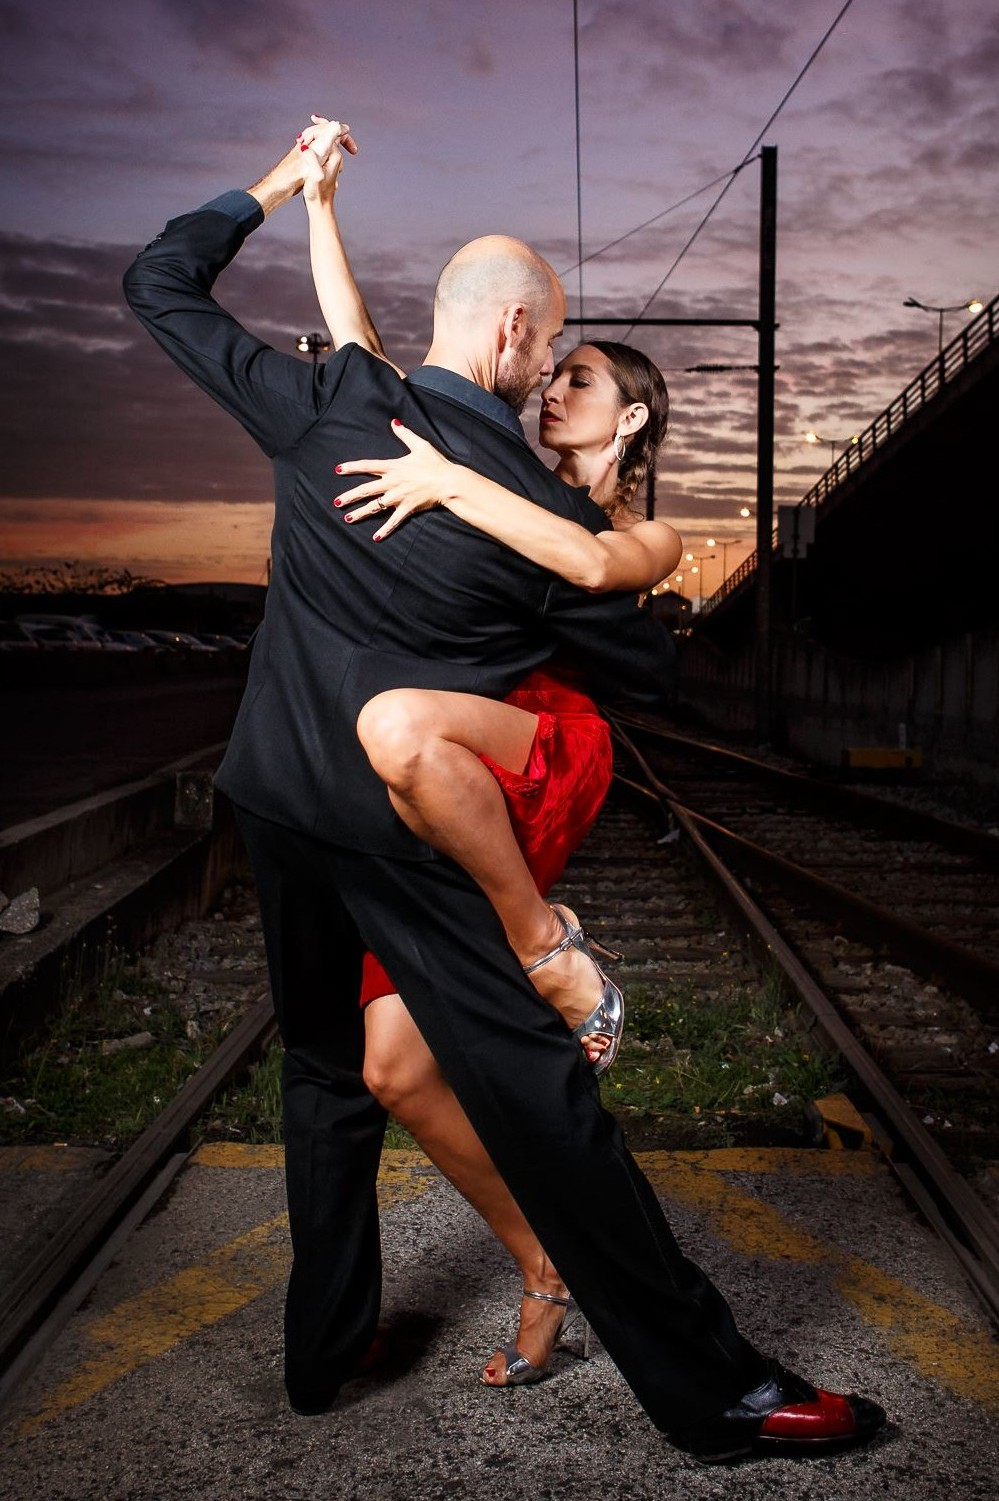
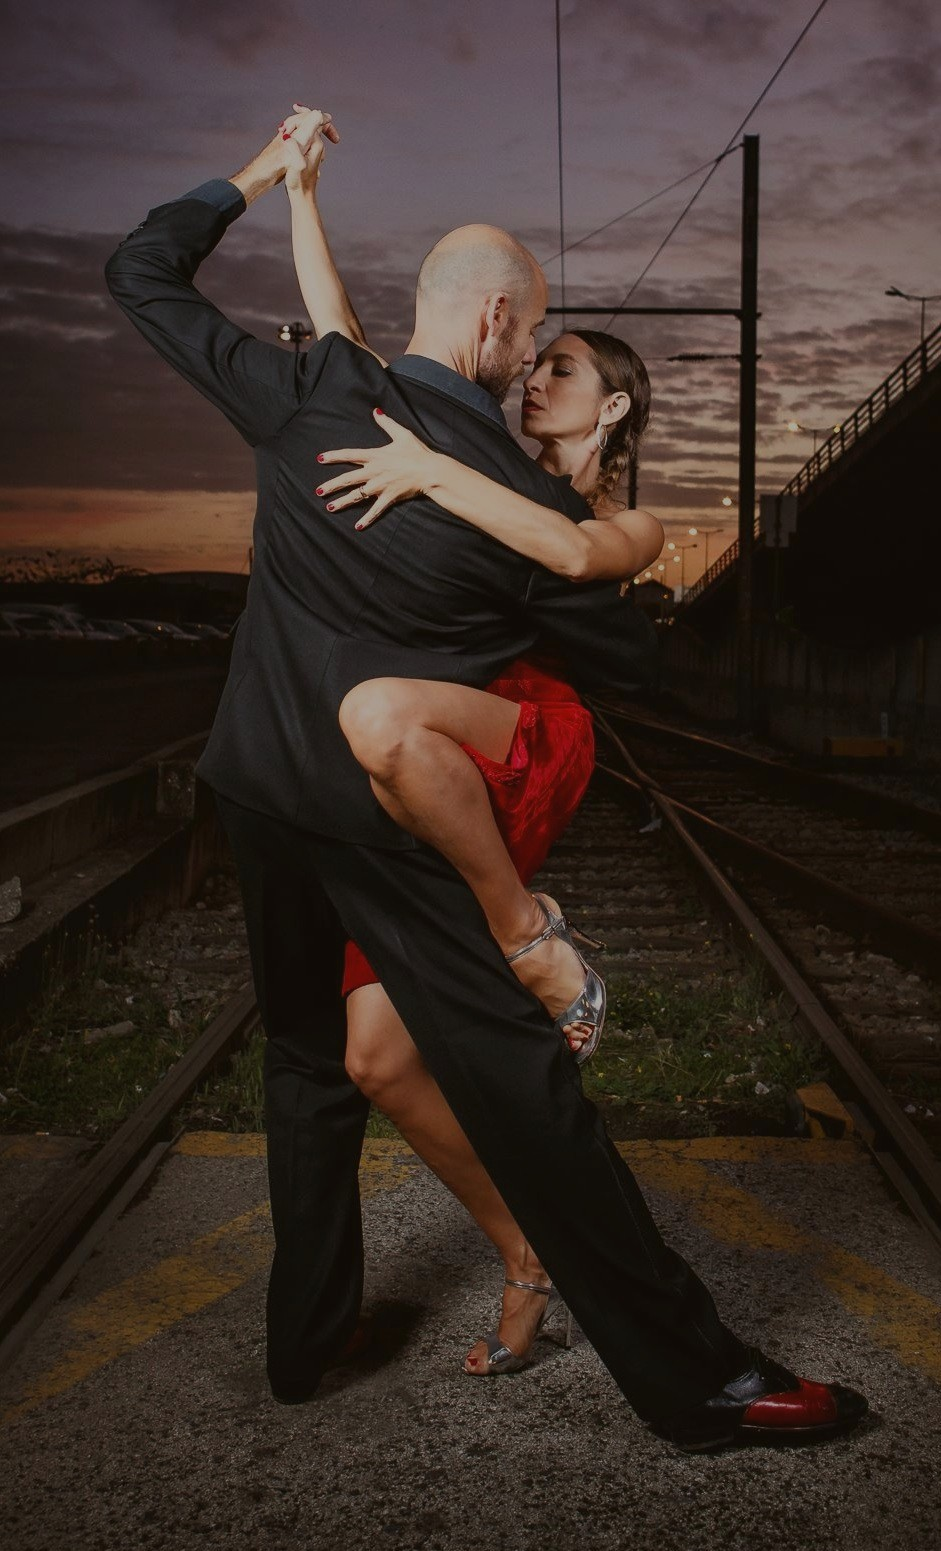
replace fixed bg for something else

diff --git a/src/sections/TeamSection.js b/src/sections/TeamSection.js
@@ -9,13 +9,12 @@ import { Title } from "../globalStyles";
 import { MemberBio } from "../components/Memberbio";
 import { MemberImage } from "../components/MemberImage";
 
-import BackgroundImage from "../assets/images/couple2.jpg";
+import BackgroundImage from "../assets/images/c1.jpg";
 
-const TeamSectionContainer = styled(motion.div)`
-	${tw`
-        bg-no-repeat
+const TeamSectionContainer = tw(motion.div)`
 		w-full
-		min-h-[300vh]
+		min-h-[180vh]
+		lg:min-h-[300vh]
         flex
         flex-col
         pt-1
@@ -23,21 +22,11 @@ const TeamSectionContainer = styled(motion.div)`
         xl:pt-2
         xl:pb-2
 		justify-end
-		bg-fixed
 		z-10
 		items-center
-    `};
-	background-image: url(${BackgroundImage});
-	background-size: 70%;
-	background-position: bottom 50% left 50%;
-
-	@media only screen and (max-width: 1024px) {
-		background-position: bottom 20% left 40%;
-		background-size: 170%;
-	}
 `;
 
-const Background = styled.div`
+const BackgroundGradient = styled.div`
 	${tw`
 	relative
     `};
@@ -50,18 +39,36 @@ const Background = styled.div`
 	);
 `;
 
+const BackgroundImageDiv = styled(motion.div)`
+	${tw`
+	absolute
+	bg-center
+	bg-no-repeat
+	h-[300vh]
+    `};
+
+	@media only screen and (max-width: 1024px) {
+		background-size: contain;
+	}
+
+	background: url(${BackgroundImage});
+	background-repeat: no-repeat;
+	background-size: cover;
+	width: 100%;
+`;
+
 const BackgroundShadow = styled(motion.div)`
 	${tw`
 	absolute
 	bottom-0
-	h-[55%]
+	h-[70%]
 	md:h-[50%]
 	w-full
 `}
 	background: linear-gradient(
 	180deg,
 	rgba(0, 0, 0, 0) 0%,
-	rgba(0, 0, 0, 0.3) 10%
+	rgba(0, 0, 0, 0.7) 10%
 );
 `;
 
@@ -87,20 +94,21 @@ const TeamMemberCardContainer = tw.div`
 const TeamSection = () => {
 	const { t } = useTranslation();
 	return (
-		<Background>
-			<TeamSectionContainer
+		<BackgroundGradient>
+			<BackgroundImageDiv
 				initial={{
 					opacity: 0,
 				}}
 				whileInView={{
 					opacity: 1,
 				}}
-				viewport={{ once: true, margin: "0px 0px -500px 0px" }}
+				viewport={{ once: false, margin: "0px 0px -500px 0px" }}
 				transition={{
 					ease: "easeOut",
 					duration: 1,
 				}}
-			>
+			/>
+			<TeamSectionContainer>
 				<Title name="Team">{t("team_section.title")}</Title>
 				<Team
 					initial={{ opacity: 0 }}
@@ -143,7 +151,7 @@ const TeamSection = () => {
 					duration: 1,
 				}}
 			/>
-		</Background>
+		</BackgroundGradient>
 	);
 };
 

diff --git a/src/components/NewsletterForm.js b/src/components/NewsletterForm.js
@@ -3,7 +3,8 @@ import MailchimpSubscribe from "react-mailchimp-subscribe";
 import { FormContainer, Input, Label, SubmitButton } from "../globalStyles";
 import React, { useState } from "react";
 
-const url = process.env.REACT_APP_MAILCHIMP_URL;
+const url = `${process.env.REACT_APP_MAILCHIMP_URL}u=${process.env.REACT_APP_MAILCHIMP_U}&id=${process.env.REACT_APP_MAILCHIMP_ID}`;
+
 // styles
 
 const CustomForm = ({ status, message, onValidated }) => {
